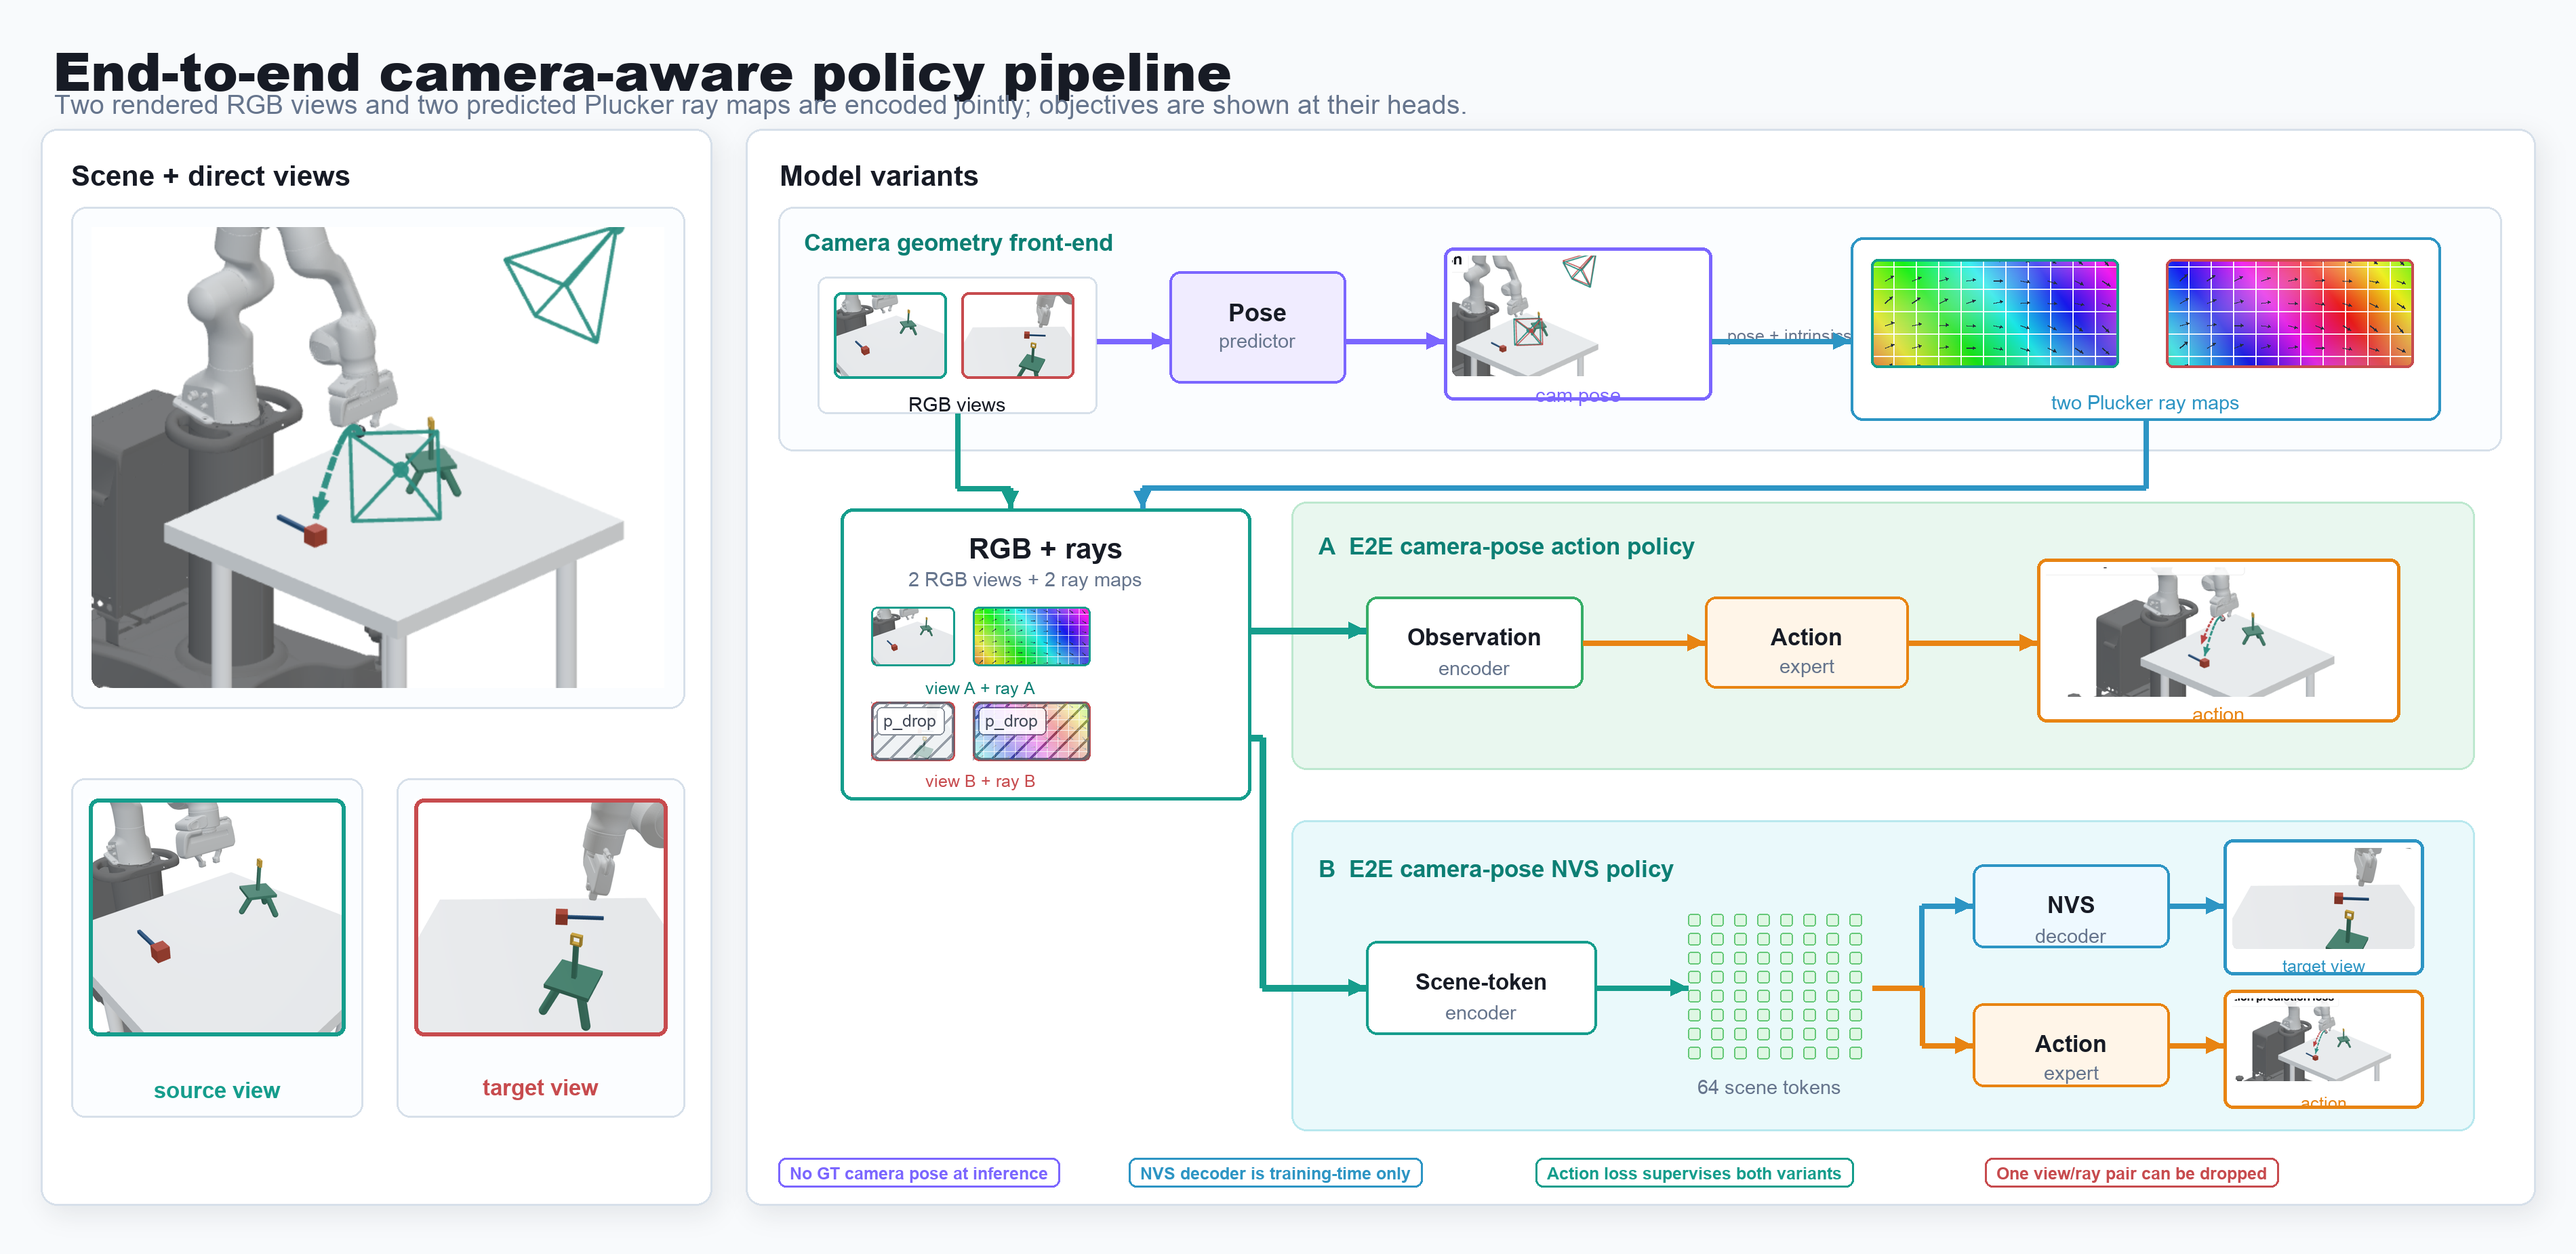
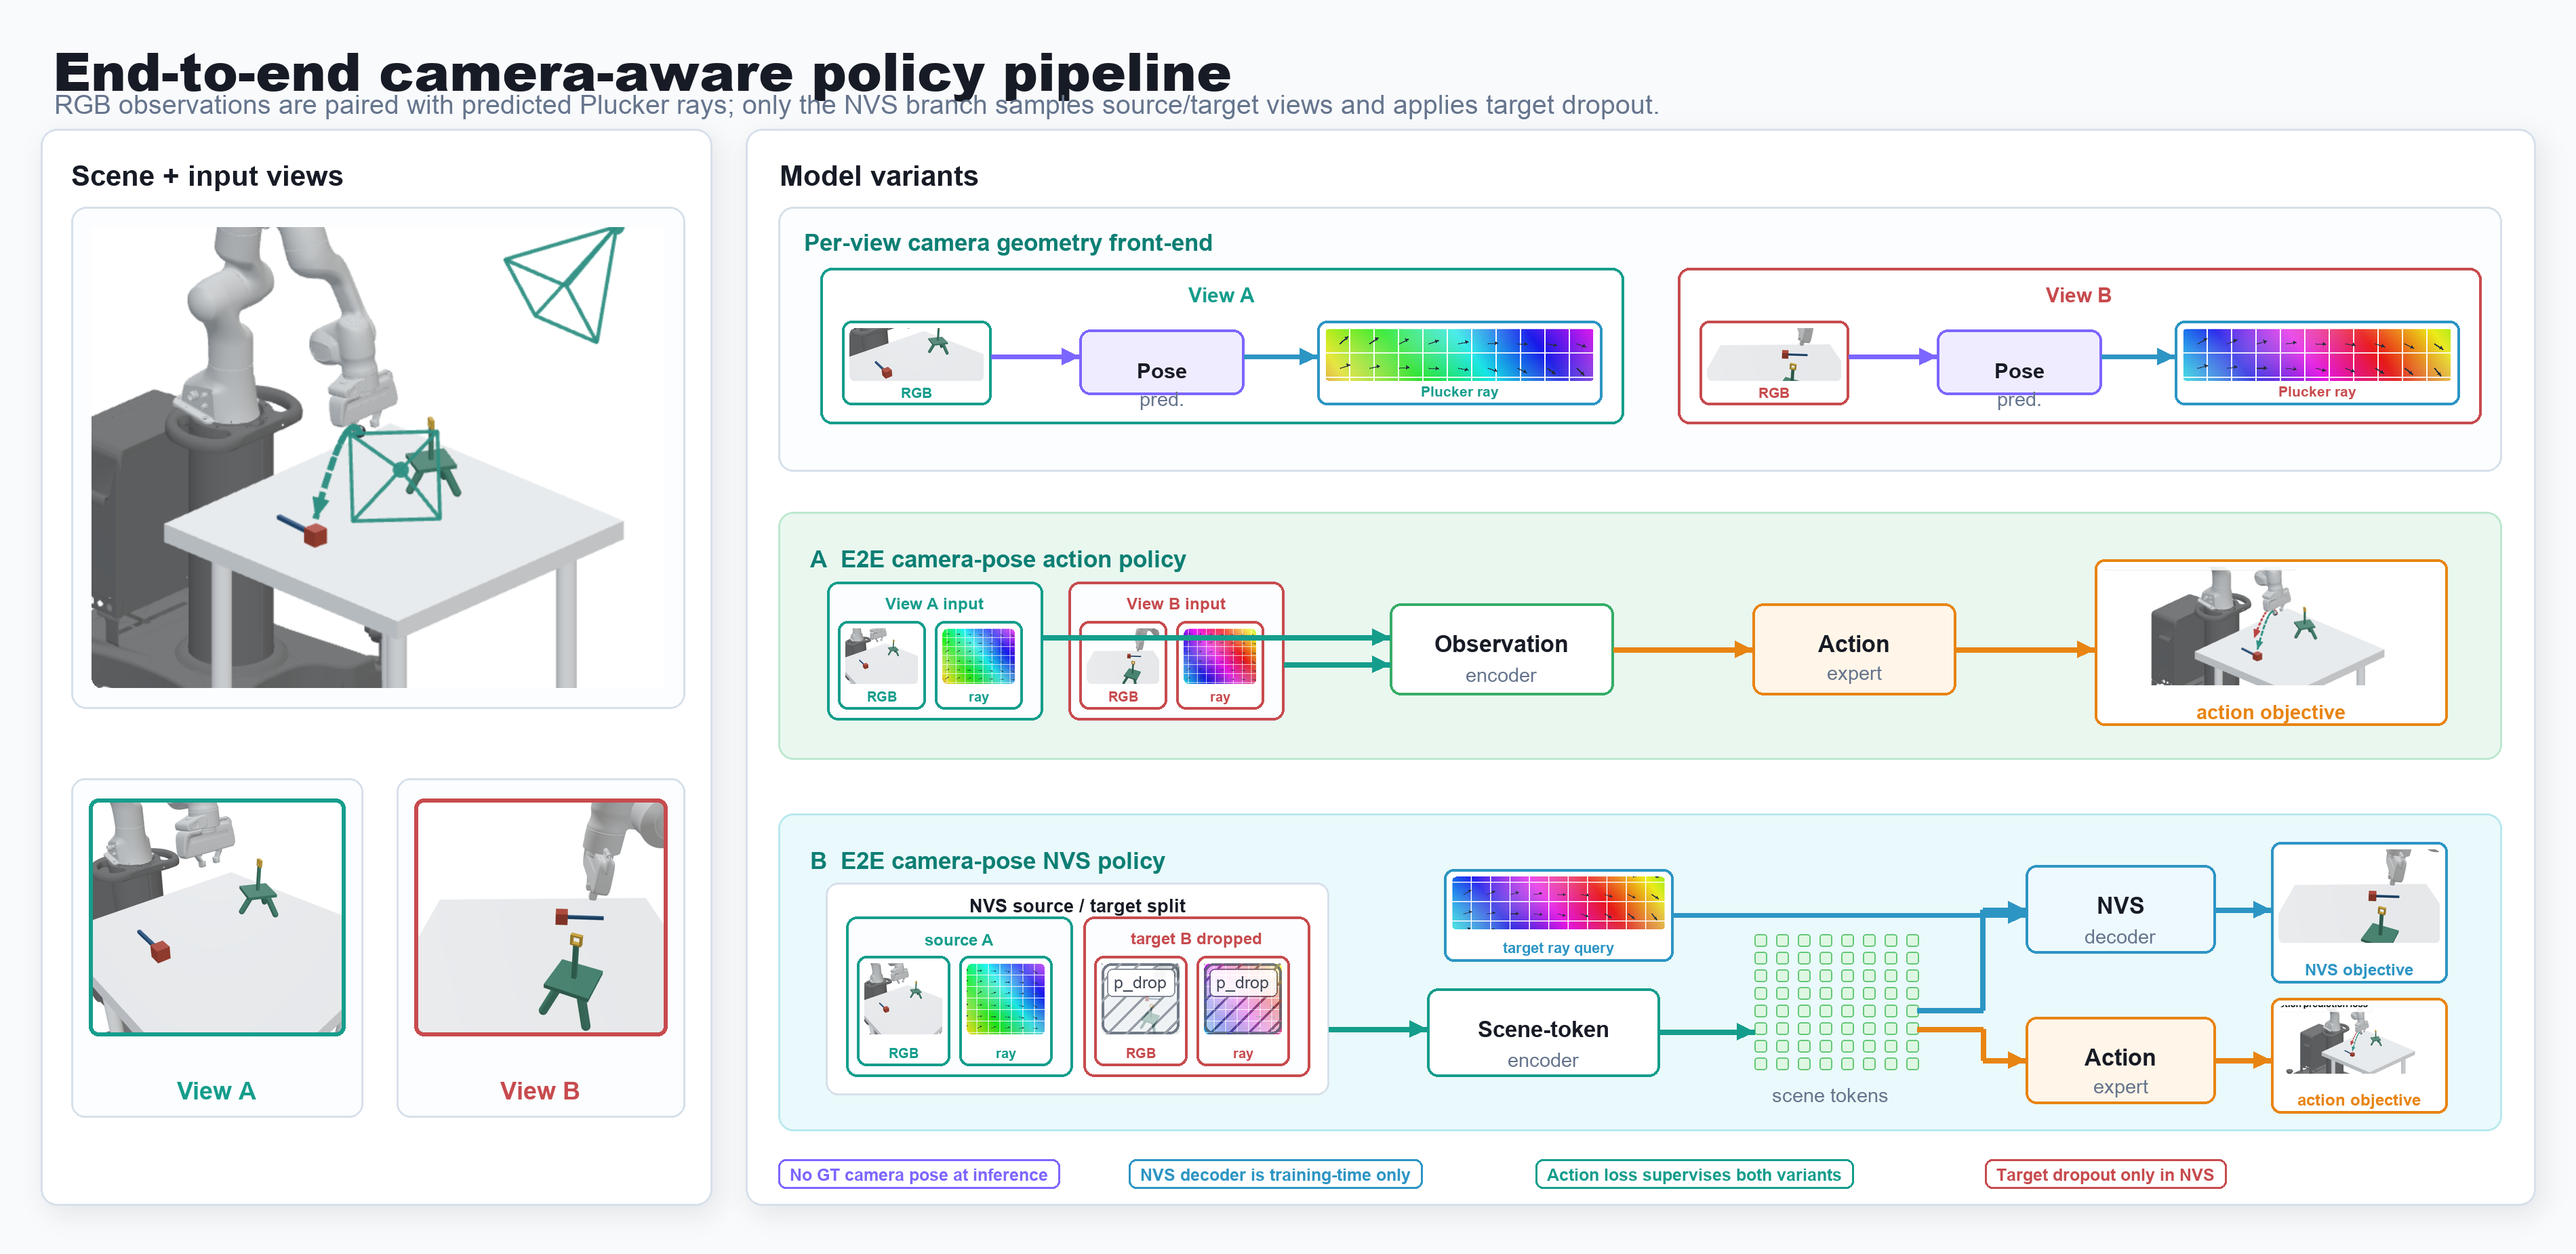
Clarify NVS dropout in pipeline figure

diff --git a/figures/scripts/render_pipeline_figure.py b/figures/scripts/render_pipeline_figure.py
@@ -88,6 +88,18 @@ def text_center(xy, text, fnt, fill=C_TEXT):
     d.text((x - (box[2] - box[0]) / 2, y - (box[3] - box[1]) / 2), text, font=fnt, fill=fill)
 
 
+def text_fit_center(xy, text, size, max_width, fill=C_TEXT, bold=False, min_size=17):
+    chosen = size
+    fnt = font(chosen, bold=bold)
+    while chosen > min_size:
+        box = d.textbbox((0, 0), text, font=fnt)
+        if box[2] - box[0] <= max_width:
+            break
+        chosen -= 1
+        fnt = font(chosen, bold=bold)
+    text_center(xy, text, fnt, fill=fill)
+
+
 def arrow(points, color="#1c9b8e", width=9, head=26):
     pts = [(int(x), int(y)) for x, y in points]
     for a, b in zip(pts[:-1], pts[1:]):
@@ -140,6 +152,29 @@ def dropout_overlay(box, label="p_drop"):
     img.paste(comp.convert("RGB"), (x0, y0))
 
 
+def labeled_tile(src, box, label, stroke, label_color=None, label_size=23, image_frac=0.72, overlay_drop=False):
+    x0, y0, x1, y1 = map(int, box)
+    rounded((x0, y0, x1, y1), r=14, fill="white", outline=stroke, width=4)
+    pad = 11
+    im_bottom = y0 + int((y1 - y0) * image_frac)
+    paste_cover(src, (x0 + pad, y0 + pad, x1 - pad, im_bottom), radius=9)
+    if overlay_drop:
+        dropout_overlay((x0 + pad, y0 + pad, x1 - pad, im_bottom), "p_drop")
+    text_fit_center(((x0 + x1) / 2, y1 - 22), label, label_size, (x1 - x0) - 18, fill=label_color or stroke, bold=True)
+
+
+def pair_card(box, title, rgb_img, ray_img, stroke, dropped=False, title_size=24):
+    x0, y0, x1, y1 = map(int, box)
+    rounded((x0, y0, x1, y1), r=16, fill="#fbfdff", outline=stroke, width=4)
+    text_fit_center(((x0 + x1) / 2, y0 + 30), title, title_size, (x1 - x0) - 24, fill=stroke, bold=True)
+    gap = 14
+    inner_top = y0 + 58
+    inner_bottom = y1 - 16
+    tile_w = int((x1 - x0 - 46 - gap) / 2)
+    labeled_tile(rgb_img, (x0 + 16, inner_top, x0 + 16 + tile_w, inner_bottom), "RGB", stroke, label_size=20, overlay_drop=dropped)
+    labeled_tile(ray_img, (x0 + 16 + tile_w + gap, inner_top, x0 + 16 + tile_w * 2 + gap, inner_bottom), "ray", stroke, label_size=20, overlay_drop=dropped)
+
+
 def plucker(size=(330, 185), phase=0.0):
     w, h = size
     xx = np.linspace(0, 1, w)[None, :]
@@ -187,111 +222,89 @@ def main():
     ray_b = plucker((420, 235), 0.42)
 
     d.text((78, 48), "End-to-end camera-aware policy pipeline", font=F_TITLE, fill=C_TEXT)
-    d.text((80, 132), "Two rendered RGB views and two predicted Plucker ray maps are encoded jointly; objectives are shown at their heads.", font=F_SUB, fill=C_MUTED)
+    d.text((80, 132), "RGB observations are paired with predicted Plucker rays; only the NVS branch samples source/target views and applies target dropout.", font=F_SUB, fill=C_MUTED)
 
     left = (60, 190, 1050, 1778)
     right = (1100, 190, 3740, 1778)
     shadowed_panel(left)
     shadowed_panel(right)
-    d.text((105, 235), "Scene + direct views", font=F_PANEL, fill=C_TEXT)
+    d.text((105, 235), "Scene + input views", font=F_PANEL, fill=C_TEXT)
     d.text((1150, 235), "Model variants", font=F_PANEL, fill=C_TEXT)
 
     rounded((105, 305, 1010, 1045), r=22, fill="#fbfdff", outline=C_LINE, width=3)
     paste_cover(scene_crop, (135, 335, 980, 1015), radius=16)
     for box, label, col, im in [
-        ((105, 1148, 535, 1648), "source view", C_TEAL, view_a),
-        ((585, 1148, 1010, 1648), "target view", C_RED, view_b),
+        ((105, 1148, 535, 1648), "View A", C_TEAL, view_a),
+        ((585, 1148, 1010, 1648), "View B", C_RED, view_b),
     ]:
         rounded(box, r=20, fill="#fbfdff", outline=C_LINE, width=3)
         x0, y0, x1, y1 = box
         paste_cover(im, (x0 + 26, y0 + 30, x1 - 26, y0 + 380), radius=14, border=col, bw=6)
-        text_center(((x0 + x1) / 2, y1 - 46), label, F_LABEL, fill=col)
+        text_fit_center(((x0 + x1) / 2, y1 - 46), label, 36, (x1 - x0) - 38, fill=col, bold=True)
 
-    front = (1148, 305, 3690, 665)
+    front = (1148, 305, 3690, 695)
     rounded(front, r=22, fill="#fbfdff", outline=C_LINE, width=3)
-    d.text((1186, 338), "Camera geometry front-end", font=F_BAND, fill=C_TEAL_DARK)
-    rgb_box = (1206, 408, 1618, 610)
-    rounded(rgb_box, r=14, fill="white", outline=C_LINE, width=3)
-    paste_cover(view_a, (1230, 431, 1396, 558), radius=11, border=C_TEAL, bw=4)
-    paste_cover(view_b, (1418, 431, 1584, 558), radius=11, border=C_RED, bw=4)
-    text_center((1412, 591), "RGB views", F_SMALL, fill=C_TEXT)
-    node((1725, 400, 1985, 565), "Pose", "predictor", stroke=C_PURPLE, fill=C_PURPLE_FILL, title_color=C_TEXT, title_size=36)
-    pose_img_box = (2130, 365, 2525, 590)
-    rounded(pose_img_box, r=14, fill="white", outline=C_PURPLE, width=5)
-    paste_cover(pose_crop, (2142, 377, 2513, 555), radius=10)
-    text_center(((pose_img_box[0] + pose_img_box[2]) / 2, 577), "cam pose", F_SMALL, fill=C_PURPLE)
-    rays_box = (2730, 350, 3600, 620)
-    rounded(rays_box, r=18, fill="white", outline=C_BLUE, width=4)
-    paste_cover(ray_a, (2760, 382, 3125, 542), radius=10, border=C_TEAL, bw=4)
-    paste_cover(ray_b, (3195, 382, 3560, 542), radius=10, border=C_RED, bw=4)
-    text_center((3165, 591), "two Plucker ray maps", F_SMALL, fill=C_BLUE)
-    arrow([(1618, 503), (1725, 503)], color=C_PURPLE, width=8)
-    arrow([(1985, 503), (2130, 503)], color=C_PURPLE, width=8)
-    d.text((2548, 481), "pose + intrinsics", font=F_TINY, fill=C_MUTED)
-    arrow([(2525, 503), (2730, 503)], color=C_BLUE, width=8)
+    d.text((1186, 338), "Per-view camera geometry front-end", font=F_BAND, fill=C_TEAL_DARK)
 
-    obs = (1240, 750, 1845, 1180)
-    rounded(obs, r=18, fill="white", outline=C_TEAL, width=5)
-    text_center((1542, 804), "RGB + rays", font(42, bold=True), fill=C_TEXT)
-    d.text((1340, 838), "2 RGB views + 2 ray maps", font=F_SMALL, fill=C_MUTED)
+    def front_card(box, title, rgb_img, ray_img, stroke):
+        x0, y0, x1, y1 = box
+        rounded(box, r=17, fill="white", outline=stroke, width=4)
+        text_fit_center(((x0 + x1) / 2, y0 + 34), title, 30, (x1 - x0) - 28, fill=stroke, bold=True)
+        labeled_tile(rgb_img, (x0 + 32, y0 + 78, x0 + 252, y1 - 28), "RGB", stroke, label_size=21)
+        node((x0 + 382, y0 + 91, x0 + 625, y1 - 43), "Pose", "pred.", stroke=C_PURPLE, fill=C_PURPLE_FILL, title_color=C_TEXT, title_size=31)
+        labeled_tile(ray_img, (x1 - 452, y0 + 78, x1 - 32, y1 - 28), "Plucker ray", C_BLUE, label_color=stroke, label_size=21)
+        arrow([(x0 + 252, (y0 + y1) / 2 + 16), (x0 + 382, (y0 + y1) / 2 + 16)], color=C_PURPLE, width=7)
+        arrow([(x0 + 625, (y0 + y1) / 2 + 16), (x1 - 452, (y0 + y1) / 2 + 16)], color=C_BLUE, width=7)
 
-    # View/ray pairs are labeled below the thumbnails; view B and its ray map are dropped together.
-    paste_cover(view_a, (1285, 895, 1408, 982), radius=9, border=C_TEAL, bw=3)
-    paste_cover(ray_a, (1435, 895, 1608, 982), radius=9, border=C_TEAL, bw=3)
-    text_center((1446, 1013), "view A + ray A", F_TINY, fill=C_TEAL_DARK)
-    paste_cover(view_b, (1285, 1035, 1408, 1122), radius=9, border=C_RED, bw=3)
-    paste_cover(ray_b, (1435, 1035, 1608, 1122), radius=9, border=C_RED, bw=3)
-    dropout_overlay((1285, 1035, 1408, 1122), "p_drop")
-    dropout_overlay((1435, 1035, 1608, 1122), "p_drop")
-    text_center((1446, 1150), "view B + ray B", F_TINY, fill=C_RED)
-    arrow([(1412, 610), (1412, 720), (1490, 720), (1490, 750)], color=C_TEAL, width=8)
-    arrow([(3165, 620), (3165, 720), (1685, 720), (1685, 750)], color=C_BLUE, width=8)
+    front_card((1210, 395, 2395, 625), "View A", view_a, ray_a, C_TEAL)
+    front_card((2475, 395, 3660, 625), "View B", view_b, ray_b, C_RED)
 
-    band_a = (1905, 740, 3650, 1135)
+    band_a = (1148, 755, 3690, 1120)
     rounded(band_a, r=22, fill=C_GREEN_FILL, outline=C_GREEN_STROKE, width=3)
-    d.text((1945, 786), "A  E2E camera-pose action policy", font=F_BAND, fill=C_TEAL_DARK)
-    node((2015, 880, 2335, 1015), "Observation", "encoder", stroke="#35ad67", fill="white", title_size=34)
-    node((2515, 880, 2815, 1015), "Action", "expert", stroke=C_ORANGE, fill=C_ORANGE_FILL, title_size=34)
-    action_a = (3005, 824, 3540, 1065)
-    rounded(action_a, r=14, fill="white", outline=C_ORANGE, width=5)
-    paste_cover(action_crop, (3018, 837, 3527, 1028), radius=9)
-    text_center(((action_a[0] + action_a[2]) / 2, 1048), "action", F_SMALL, fill=C_ORANGE)
-    arrow([(1845, 930), (2015, 930)], color=C_TEAL, width=10)
-    arrow([(2335, 948), (2515, 948)], color=C_ORANGE, width=8)
-    arrow([(2815, 948), (3005, 948)], color=C_ORANGE, width=8)
+    d.text((1195, 805), "A  E2E camera-pose action policy", font=F_BAND, fill=C_TEAL_DARK)
+    pair_card((1220, 858, 1538, 1062), "View A input", view_a, ray_a, C_TEAL)
+    pair_card((1576, 858, 1894, 1062), "View B input", view_b, ray_b, C_RED)
+    node((2050, 890, 2380, 1025), "Observation", "encoder", stroke="#35ad67", fill="white", title_size=34)
+    node((2585, 890, 2885, 1025), "Action", "expert", stroke=C_ORANGE, fill=C_ORANGE_FILL, title_size=34)
+    labeled_tile(action_crop, (3090, 825, 3610, 1070), "action objective", C_ORANGE, label_size=29, image_frac=0.76)
+    arrow([(1538, 940), (2050, 940)], color=C_TEAL, width=8)
+    arrow([(1894, 980), (2050, 980)], color=C_TEAL, width=8)
+    arrow([(2380, 958), (2585, 958)], color=C_ORANGE, width=8)
+    arrow([(2885, 958), (3090, 958)], color=C_ORANGE, width=8)
 
-    band_b = (1905, 1210, 3650, 1668)
+    band_b = (1148, 1200, 3690, 1668)
     rounded(band_b, r=22, fill=C_CYAN_FILL, outline=C_CYAN_STROKE, width=3)
-    d.text((1945, 1262), "B  E2E camera-pose NVS policy", font=F_BAND, fill=C_TEAL_DARK)
-    node((2015, 1388, 2355, 1526), "Scene-token", "encoder", stroke=C_TEAL, fill="white", title_size=33)
-    grid_x, grid_y = 2490, 1348
+    d.text((1195, 1250), "B  E2E camera-pose NVS policy", font=F_BAND, fill=C_TEAL_DARK)
+    sampler = (1218, 1302, 1960, 1615)
+    rounded(sampler, r=18, fill="white", outline=C_LINE, width=3)
+    text_fit_center(((sampler[0] + sampler[2]) / 2, sampler[1] + 32), "NVS source / target split", 27, sampler[2] - sampler[0] - 32, fill=C_TEXT, bold=True)
+    pair_card((1248, 1352, 1582, 1588), "source A", view_a, ray_a, C_TEAL)
+    pair_card((1598, 1352, 1932, 1588), "target B dropped", view_b, ray_b, C_RED, dropped=True)
+    node((2105, 1458, 2448, 1588), "Scene-token", "encoder", stroke=C_TEAL, fill="white", title_size=33)
+    labeled_tile(ray_b, (2130, 1282, 2468, 1418), "target ray query", C_BLUE, label_color=C_BLUE, label_size=22, image_frac=0.66)
+    grid_x, grid_y = 2588, 1378
     for row in range(8):
         for col in range(8):
-            x = grid_x + col * 34
-            y = grid_y + row * 28
+            x = grid_x + col * 32
+            y = grid_y + row * 26
             d.rounded_rectangle((x, y, x + 18, y + 18), radius=4, fill="#def7e3", outline="#65c878", width=2)
-    text_center((grid_x + 120, grid_y + 250), "64 scene tokens", F_SMALL, fill=C_MUTED)
-    node((2910, 1275, 3200, 1398), "NVS", "decoder", stroke=C_BLUE, fill="#eef9ff", title_size=34)
-    nvs_out = (3280, 1238, 3575, 1438)
-    rounded(nvs_out, r=14, fill="white", outline=C_BLUE, width=5)
-    paste_cover(view_b, (3293, 1251, 3562, 1400), radius=9)
-    text_center(((nvs_out[0] + nvs_out[2]) / 2, 1423), "target view", F_TINY, fill=C_BLUE)
-    node((2910, 1480, 3200, 1603), "Action", "expert", stroke=C_ORANGE, fill=C_ORANGE_FILL, title_size=34)
-    action_b = (3280, 1460, 3575, 1635)
-    rounded(action_b, r=14, fill="white", outline=C_ORANGE, width=5)
-    paste_cover(action_crop, (3293, 1473, 3562, 1595), radius=9)
-    text_center(((action_b[0] + action_b[2]) / 2, 1622), "action", F_TINY, fill=C_ORANGE)
-    arrow([(1845, 1088), (1862, 1088), (1862, 1457), (2015, 1457)], color=C_TEAL, width=10)
-    arrow([(2355, 1457), (2490, 1457)], color=C_TEAL, width=8)
-    arrow([(2762, 1457), (2835, 1457), (2835, 1336), (2910, 1336)], color=C_BLUE, width=8)
-    arrow([(3200, 1336), (3280, 1336)], color=C_BLUE, width=8)
-    arrow([(2762, 1457), (2835, 1457), (2835, 1542), (2910, 1542)], color=C_ORANGE, width=8)
-    arrow([(3200, 1542), (3280, 1542)], color=C_ORANGE, width=8)
+    text_center((grid_x + 112, grid_y + 232), "scene tokens", F_SMALL, fill=C_MUTED)
+    node((2988, 1276, 3268, 1406), "NVS", "decoder", stroke=C_BLUE, fill="#eef9ff", title_size=34)
+    labeled_tile(view_b, (3350, 1242, 3610, 1450), "NVS objective", C_BLUE, label_size=24, image_frac=0.72)
+    node((2988, 1500, 3268, 1628), "Action", "expert", stroke=C_ORANGE, fill=C_ORANGE_FILL, title_size=34)
+    labeled_tile(action_crop, (3350, 1472, 3610, 1642), "action objective", C_ORANGE, label_size=24, image_frac=0.66)
+    arrow([(1960, 1518), (2105, 1518)], color=C_TEAL, width=8)
+    arrow([(2448, 1522), (2588, 1522)], color=C_TEAL, width=8)
+    arrow([(2828, 1490), (2925, 1490), (2925, 1342), (2988, 1342)], color=C_BLUE, width=8)
+    arrow([(2468, 1350), (2988, 1350)], color=C_BLUE, width=7)
+    arrow([(3268, 1342), (3350, 1342)], color=C_BLUE, width=8)
+    arrow([(2828, 1518), (2925, 1518), (2925, 1564), (2988, 1564)], color=C_ORANGE, width=8)
+    arrow([(3268, 1564), (3350, 1564)], color=C_ORANGE, width=8)
 
-    chip(1148, 1708, "No GT camera pose at inference", C_PURPLE)
-    chip(1665, 1708, "NVS decoder is training-time only", C_BLUE)
-    chip(2265, 1708, "Action loss supervises both variants", C_TEAL)
-    chip(2928, 1708, "One view/ray pair can be dropped", C_RED)
+    chip(1148, 1710, "No GT camera pose at inference", C_PURPLE)
+    chip(1665, 1710, "NVS decoder is training-time only", C_BLUE)
+    chip(2265, 1710, "Action loss supervises both variants", C_TEAL)
+    chip(2928, 1710, "Target dropout only in NVS", C_RED)
 
     img.save(OUT, quality=98)
 

diff --git a/sections/02_method.tex b/sections/02_method.tex
@@ -161,7 +161,9 @@ geometry is inferred internally.
     construct Plucker ray maps before action prediction. The action-only policy
     feeds ray-conditioned observations to an action expert, while the NVS policy
     uses a separate scene-token encoder whose tokens feed both the action expert
-    and a training-time NVS decoder. Pose supervision is applied only on labeled
-    episodes, and the NVS decoder is discarded at inference.}
+    and a training-time NVS decoder. The source/target view split and target
+    dropout are used only for the NVS training objective. Pose supervision is
+    applied only on labeled episodes, and the NVS decoder is discarded at
+    inference.}
     \label{fig:pipeline}
 \end{figure}
